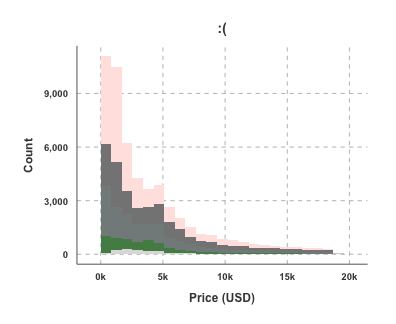
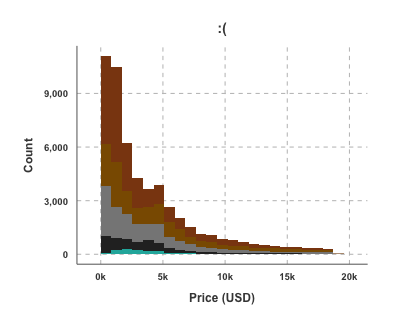
New themes in README.

Changed region(s): [[0.2424, 0.1543, 0.8485, 0.8025]]

diff --git a/README.md b/README.md
@@ -154,18 +154,7 @@ ugly <- define_palette(
   swatch = random_colours,
   gradient = c(lower = random_colours[1L], upper = random_colours[2L])
 )
-```
 
-```
-## Warning in define_palette(swatch = random_colours, gradient = c(lower =
-## random_colours[1L], : Duplicate plot colours.
-```
-
-```
-## Error: Duplicate colours in swatch.
-```
-
-```r
 ggthemr(ugly)
 
 example_plot + ggtitle(':(')
